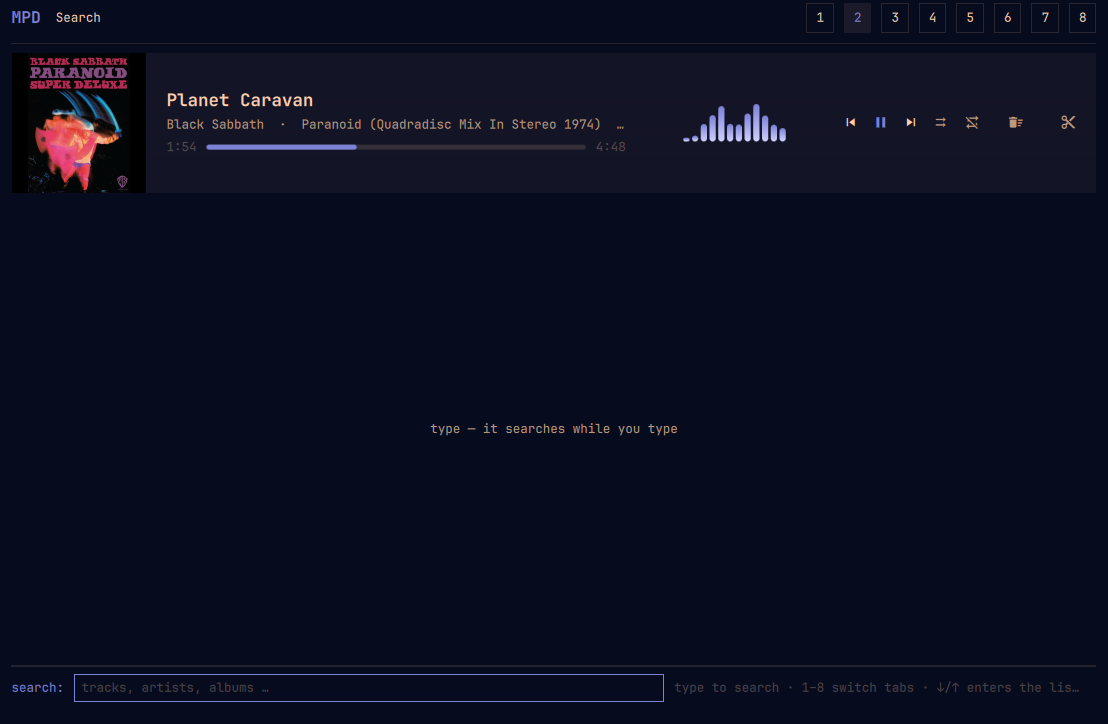
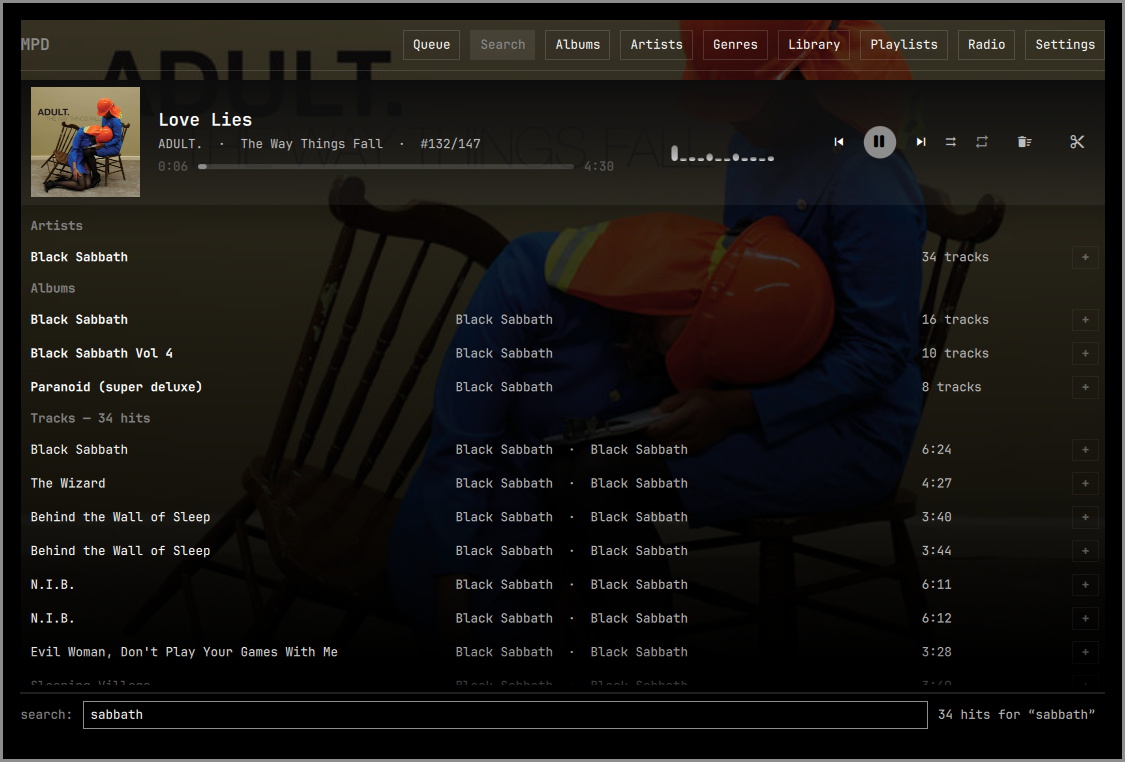
docs: re-shoot the five README images that predate the named tabs
The hero went up with 1.1.9; the rest still showed the old header -- digits `1`…`8`
(with settings as 8), "MPD Settings" with the root tab still in the breadcrumb, and
an older theme throughout. All five now come from the live panel and bar on this
build and theme:

  karte          the hover card on the bar, forced with `kokko.mpd hover on`
  panel-suche    a real search ("sabbath"): grouped hits, which is what the caption
                 promises -- the old shot showed an empty field
  einstellungen  the settings tab, current rows and values
  titelwechsel   the OSD card; shot with a raised osdDuration because the card lives
                 3000 ms, and shell.json was restored byte for byte afterwards
  desktop-card   the card on the wallpaper, from an empty workspace

panel-suche.png is now 1125x762 like the other two panels (was 1108x724), so all
three share one frame: the panel is 900x610 logical at scale 1.25.

The titelwechsel caption said "under the bar"; the card is anchored to the bottom of
the screen (300x76, 64 px above the edge, centred), so the caption says that now.
cover-looks.png is untouched: it shows the band looks, no chips, in this theme.

diff --git a/README.md b/README.md
@@ -77,7 +77,7 @@ no seek bar.
 
 [![Settings](https://github.com/taschenlampe/kokko.mpd/raw/main/docs/einstellungen.png)](docs/einstellungen.png)
 
-**A new track starts** — the brief card that shows up under the bar (it can also
+**A new track starts** — the brief card at the bottom of the screen (it can also
 send a desktop notification).
 
 [![Card on track change](https://github.com/taschenlampe/kokko.mpd/raw/main/docs/titelwechsel.png)](docs/titelwechsel.png)
